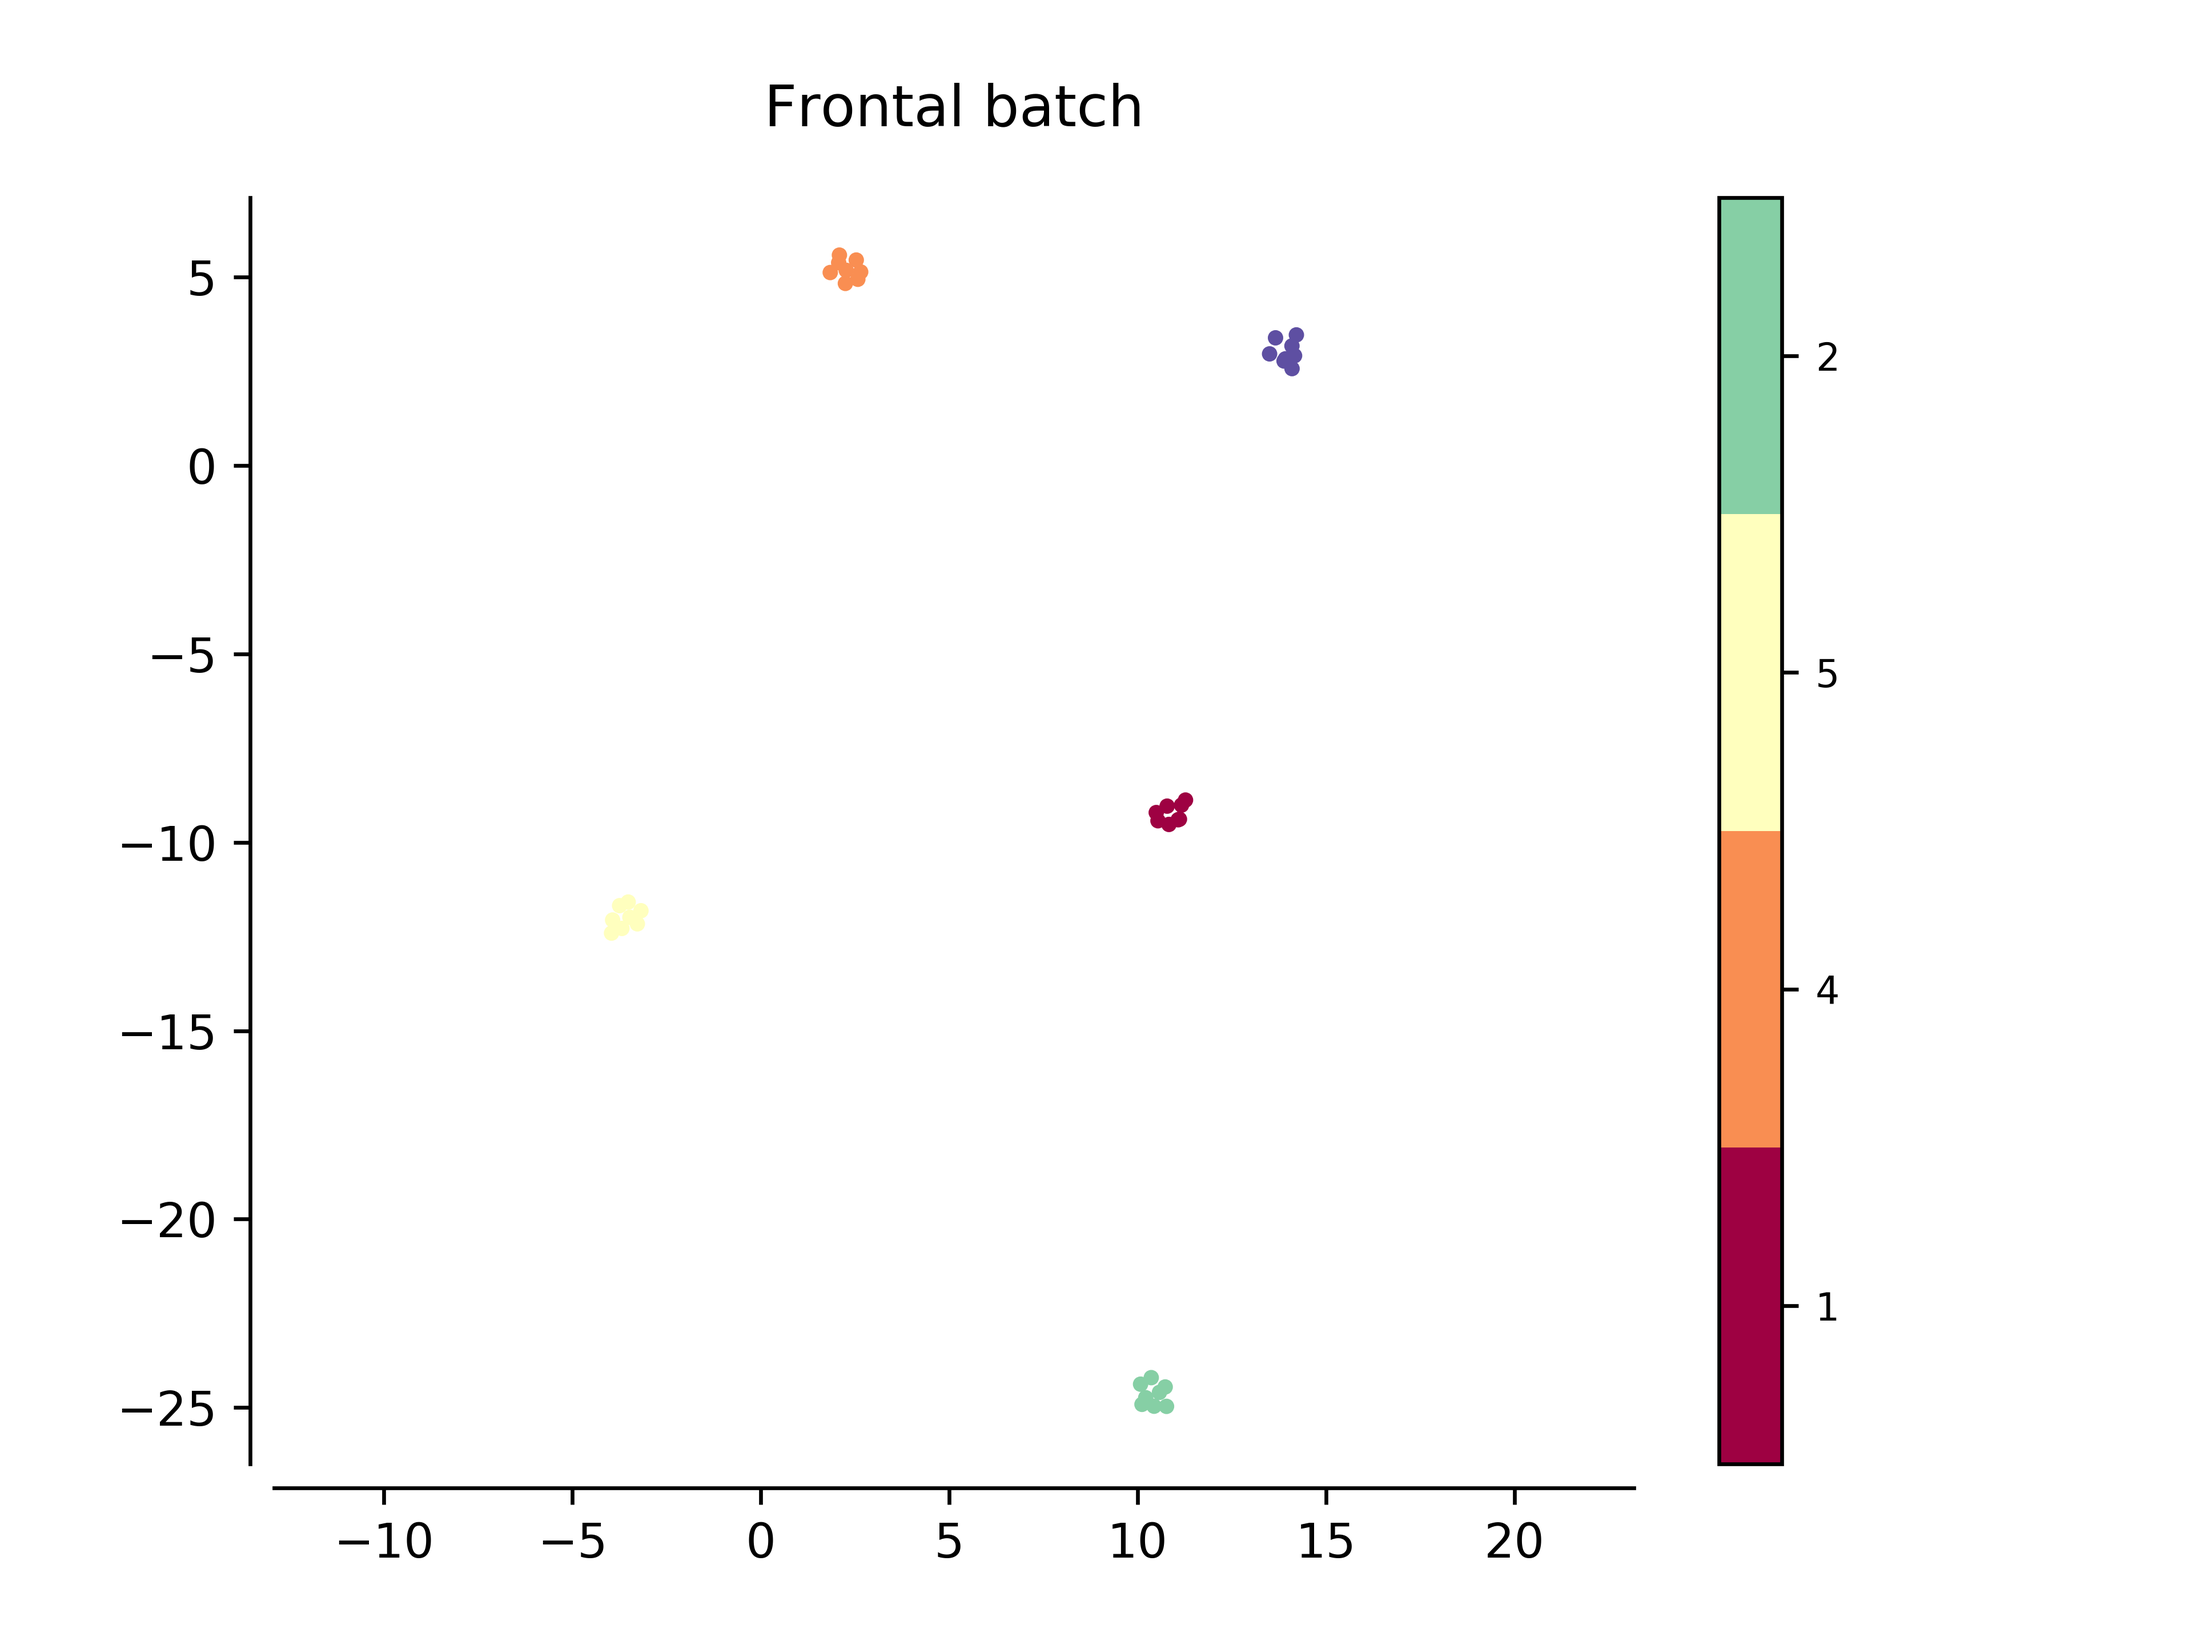
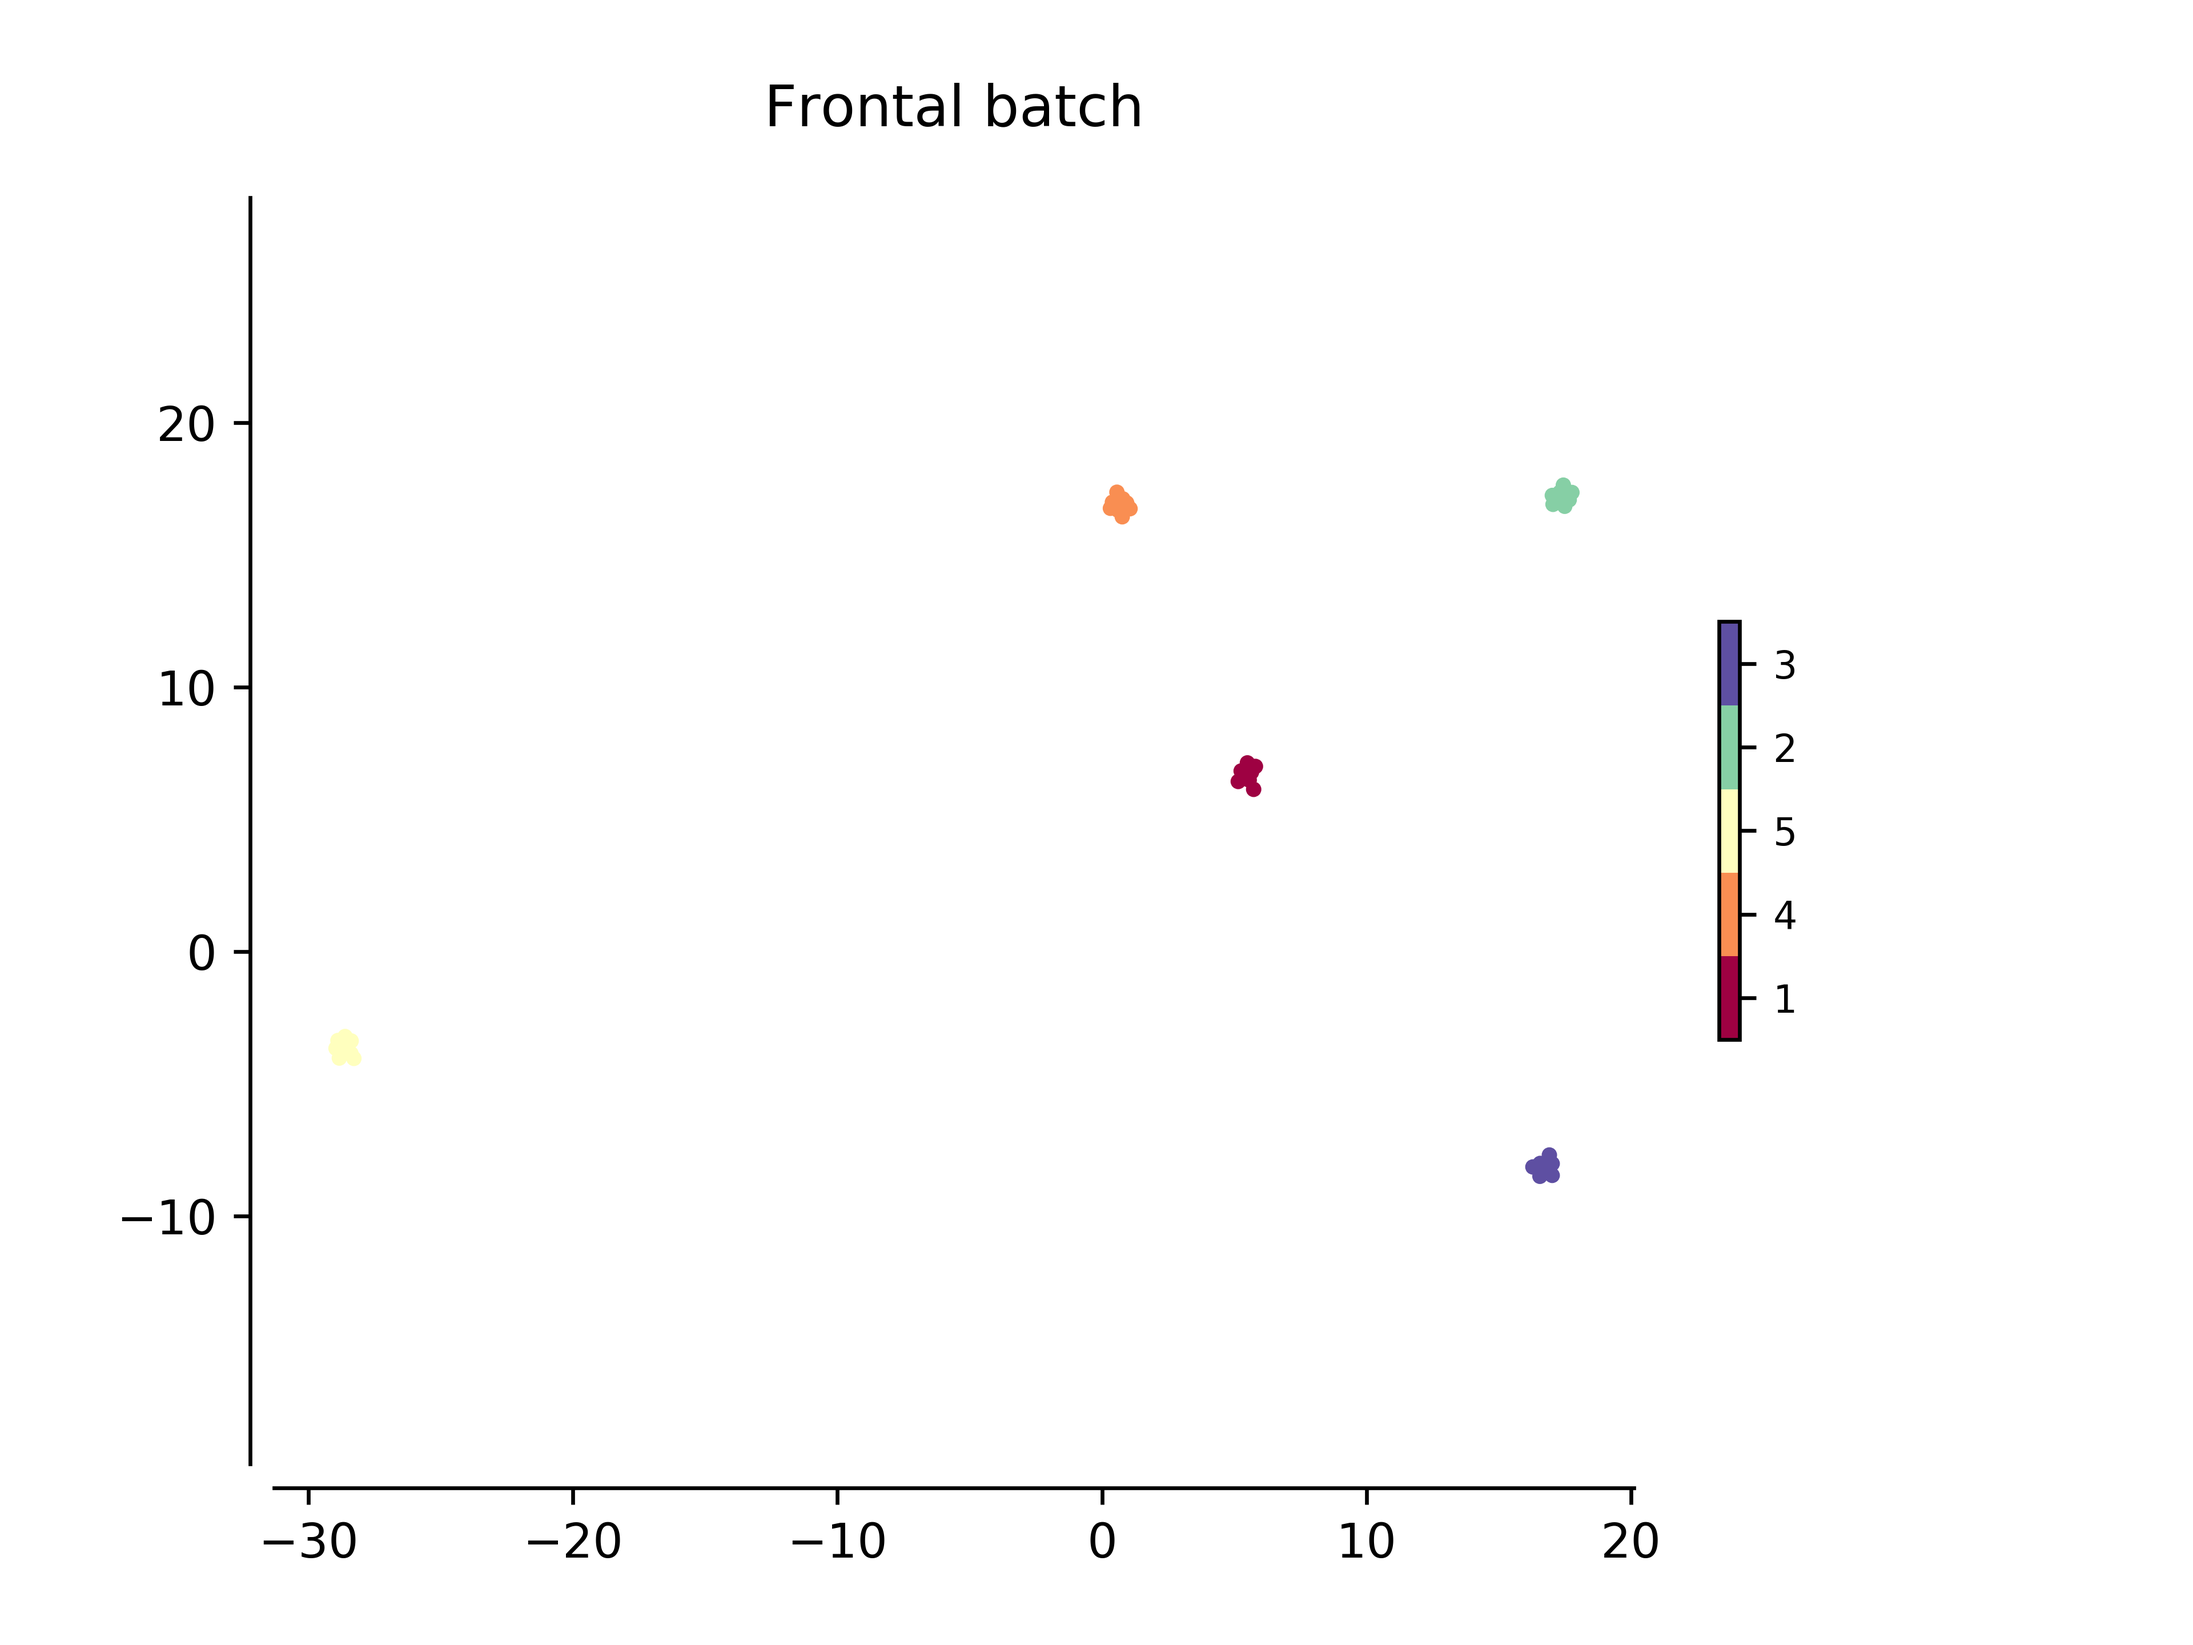
Corrected colorbar labeling error in UMAP method

diff --git a/src/data/CleanFrame.py b/src/data/CleanFrame.py
@@ -316,8 +316,9 @@ class CleanFrame(pd.core.frame.DataFrame):
         plt.title(title, fontdict={"fontsize": title_size}, pad=15)
         plt.gca().set_aspect("equal", "datalim")
         cbar = plt.colorbar(
-            boundaries=np.arange(len(y.unique())) - 0.5,
+            boundaries=np.arange(len(y.unique()) + 1) - 0.5,
             ticks=np.arange(len(y.unique())),
+            shrink=0.33,
         )
         cbar.ax.set_yticklabels(list(y.unique()), fontdict={"fontsize": label_size})
 
